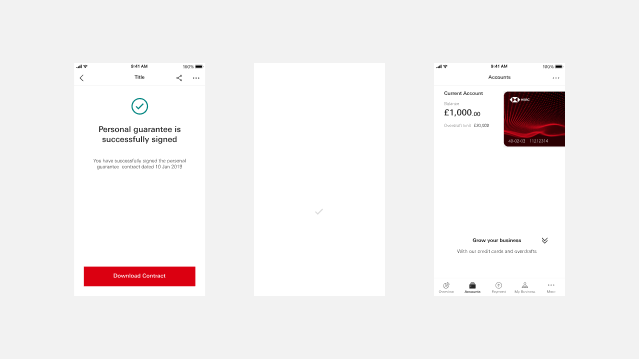
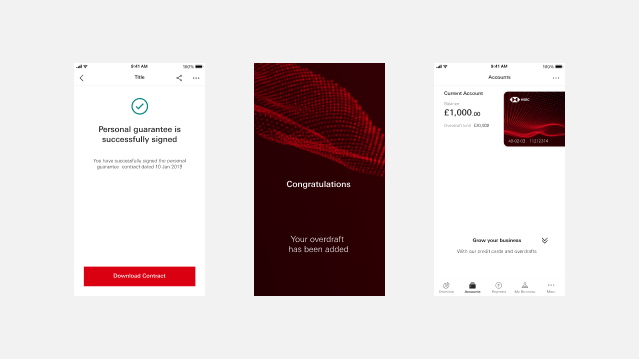
Add brand evolution image to HSBC Kinetic Market Context

Changed region(s): [[0.3865, 0.1532, 0.6244, 0.8273]]

diff --git a/apps/client/src/views/CaseStudy.tsx b/apps/client/src/views/CaseStudy.tsx
@@ -1246,7 +1246,8 @@ const caseStudiesData: CaseStudiesData = {
                 content: [
                     {
                         subtitle: "Market Context",
-                        text: "HSBC needed a digital-first \"challenger\" brand to capture the SME market. Success required moving traditionally slow, offline lending processes (loans, overdrafts) into a seamless, mobile-first ecosystem."
+                        text: "HSBC needed a digital-first \"challenger\" brand to capture the SME market. Success required moving traditionally slow, offline lending processes (loans, overdrafts) into a seamless, mobile-first ecosystem.",
+                        image: "/images/case-study-kinetic-brand-evolution.jpeg"
                     },
                     {
                         subtitle: "The Bottleneck",
